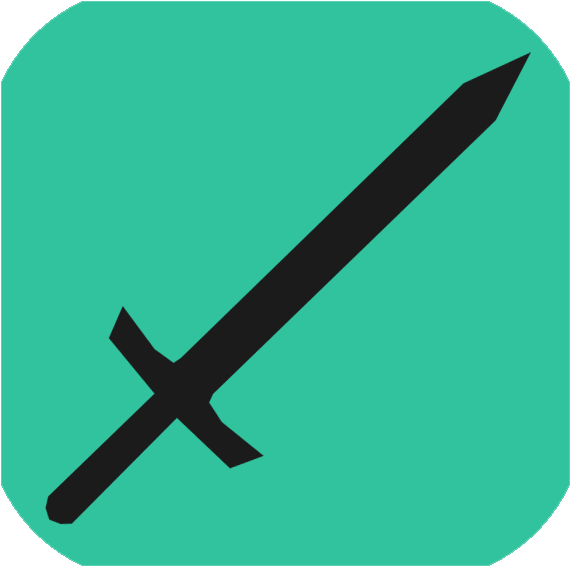
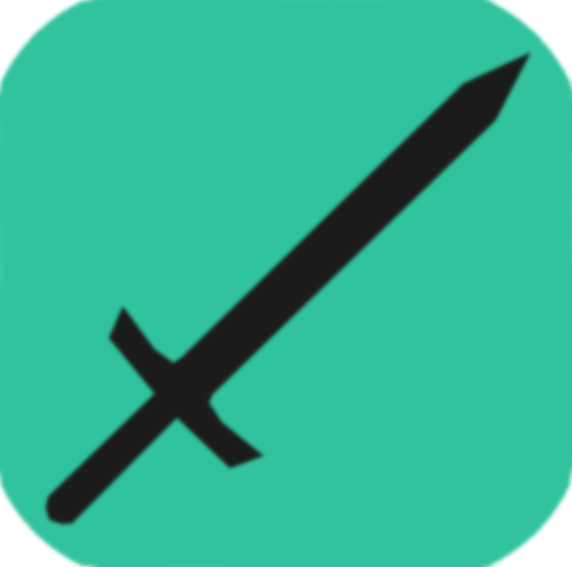
图像进行了抗锯齿处理；开始菜单作了修改；5连消的图片改为闪烁的Gif

diff --git a/src/myxiaoxiaole/MenuPanel.java b/src/myxiaoxiaole/MenuPanel.java
@@ -3,6 +3,11 @@ package myxiaoxiaole;
 import javafx.event.ActionEvent;
 import javafx.event.EventHandler;
 import javafx.scene.control.Button;
+import javafx.scene.layout.Background;
+import javafx.scene.layout.BackgroundImage;
+import javafx.scene.layout.BackgroundPosition;
+import javafx.scene.layout.BackgroundRepeat;
+import javafx.scene.layout.BackgroundSize;
 import javafx.scene.layout.Pane;
 import javafx.scene.layout.StackPane;
 
@@ -13,7 +18,9 @@ public class MenuPanel extends Pane {
     public MenuPanel(){
         this.setPrefWidth(GamePanel.WIDTH);
         this.setPrefHeight(GamePanel.HEIGHT);
-
+		BackgroundImage myBI = new BackgroundImage(Images.entering, BackgroundRepeat.REPEAT,
+				BackgroundRepeat.NO_REPEAT, BackgroundPosition.DEFAULT, BackgroundSize.DEFAULT);
+		this.setBackground(new Background(myBI));
         Button btOnePlayer = new Button("1 Player");
         Button btTwoPlayers = new Button("2 Players");//这个要突出一点
         Button btOnline = new Button("Online");

diff --git a/src/myxiaoxiaole/Images.java b/src/myxiaoxiaole/Images.java
@@ -11,11 +11,12 @@ public class Images {
     public static Image[] jewel45Images = new Image[5];
     public static Image[] jewelTLImages = new Image[5];
     public static Image background = new Image("/./images/final/background.jpg");
+    public static Image entering = new Image("/./images/final/entering.jpg");
 
     static {
         for (int i = 0; i < 5; i++) {
 //            jewelNormalImages[i] = new Image("/./images/" + i + ".gif");
-            jewel45Images[i] = new Image("/./images/" + (i+5) + ".png");
+            jewel45Images[i] = new Image("/./images/" + (i+5) + ".gif");
             jewelTLImages[i] = new Image("/./images/" + (i+10) + ".png");
         }
 
